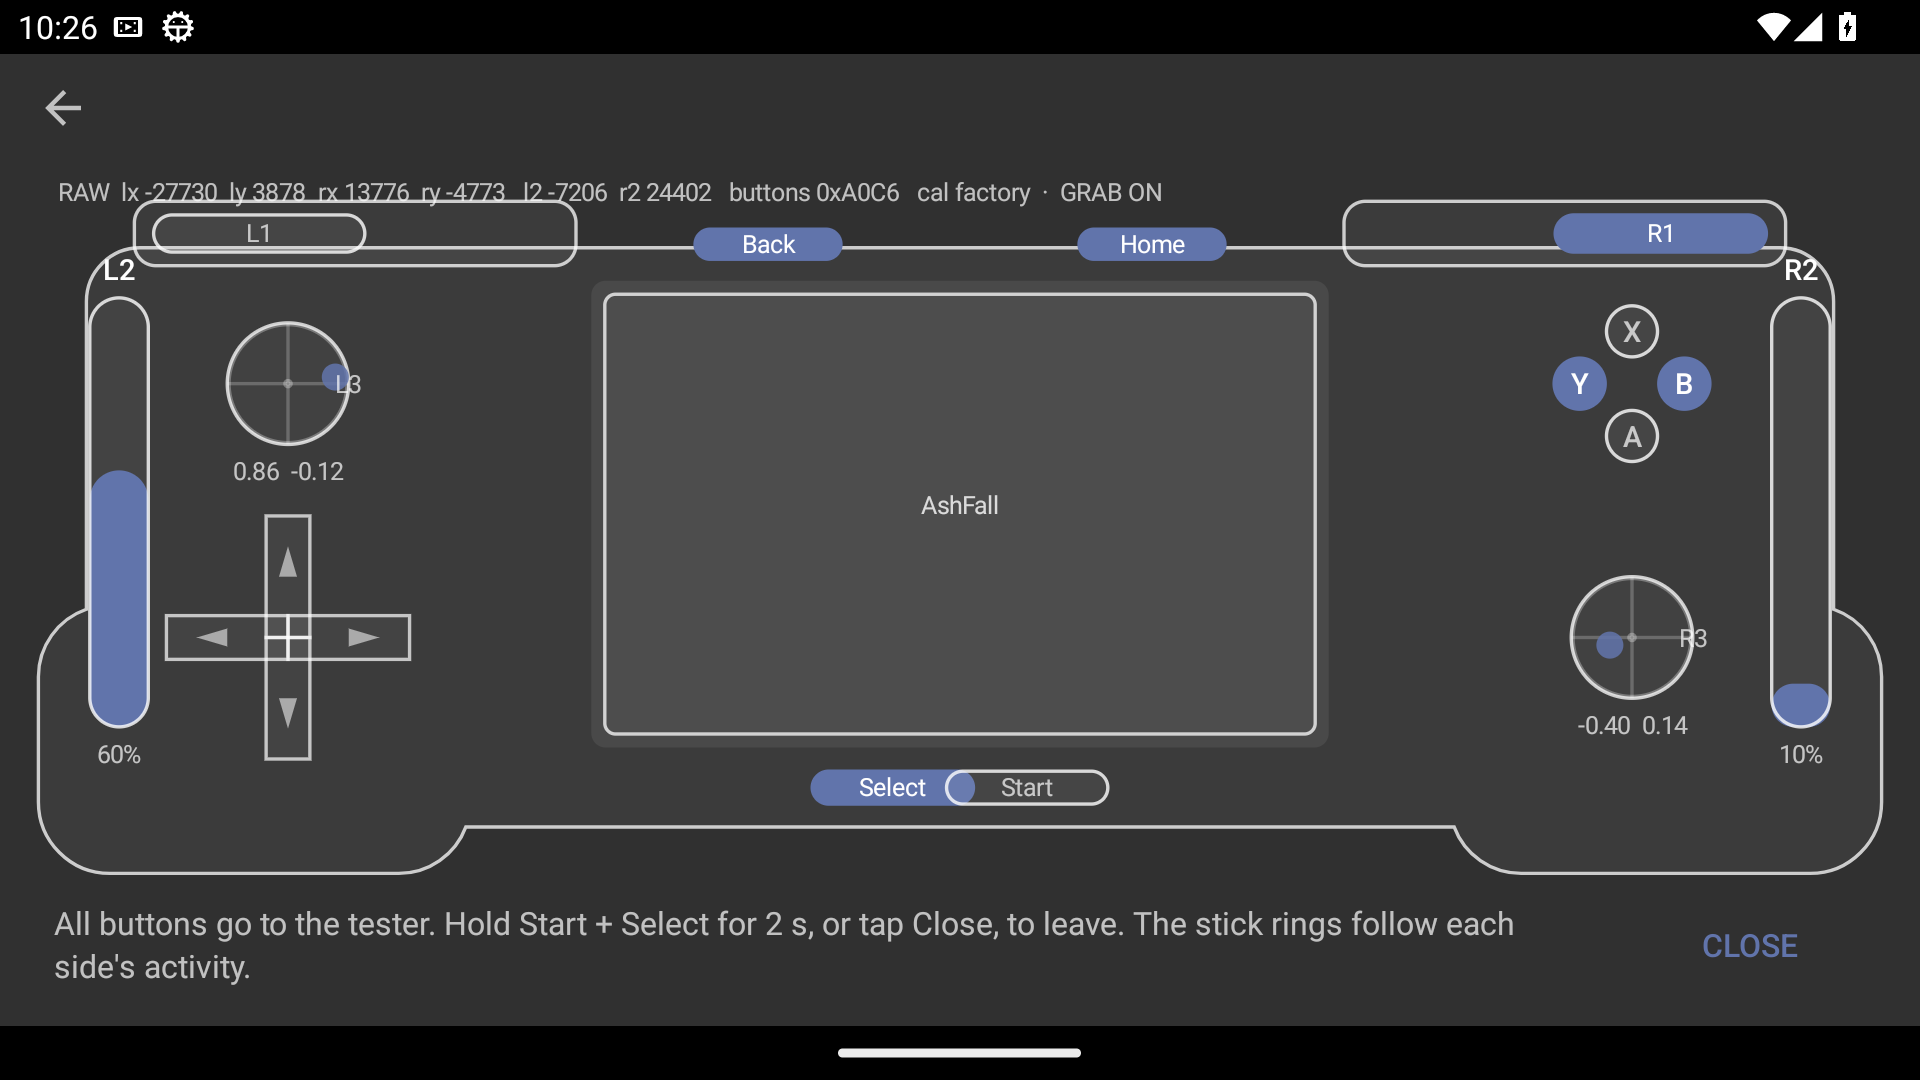
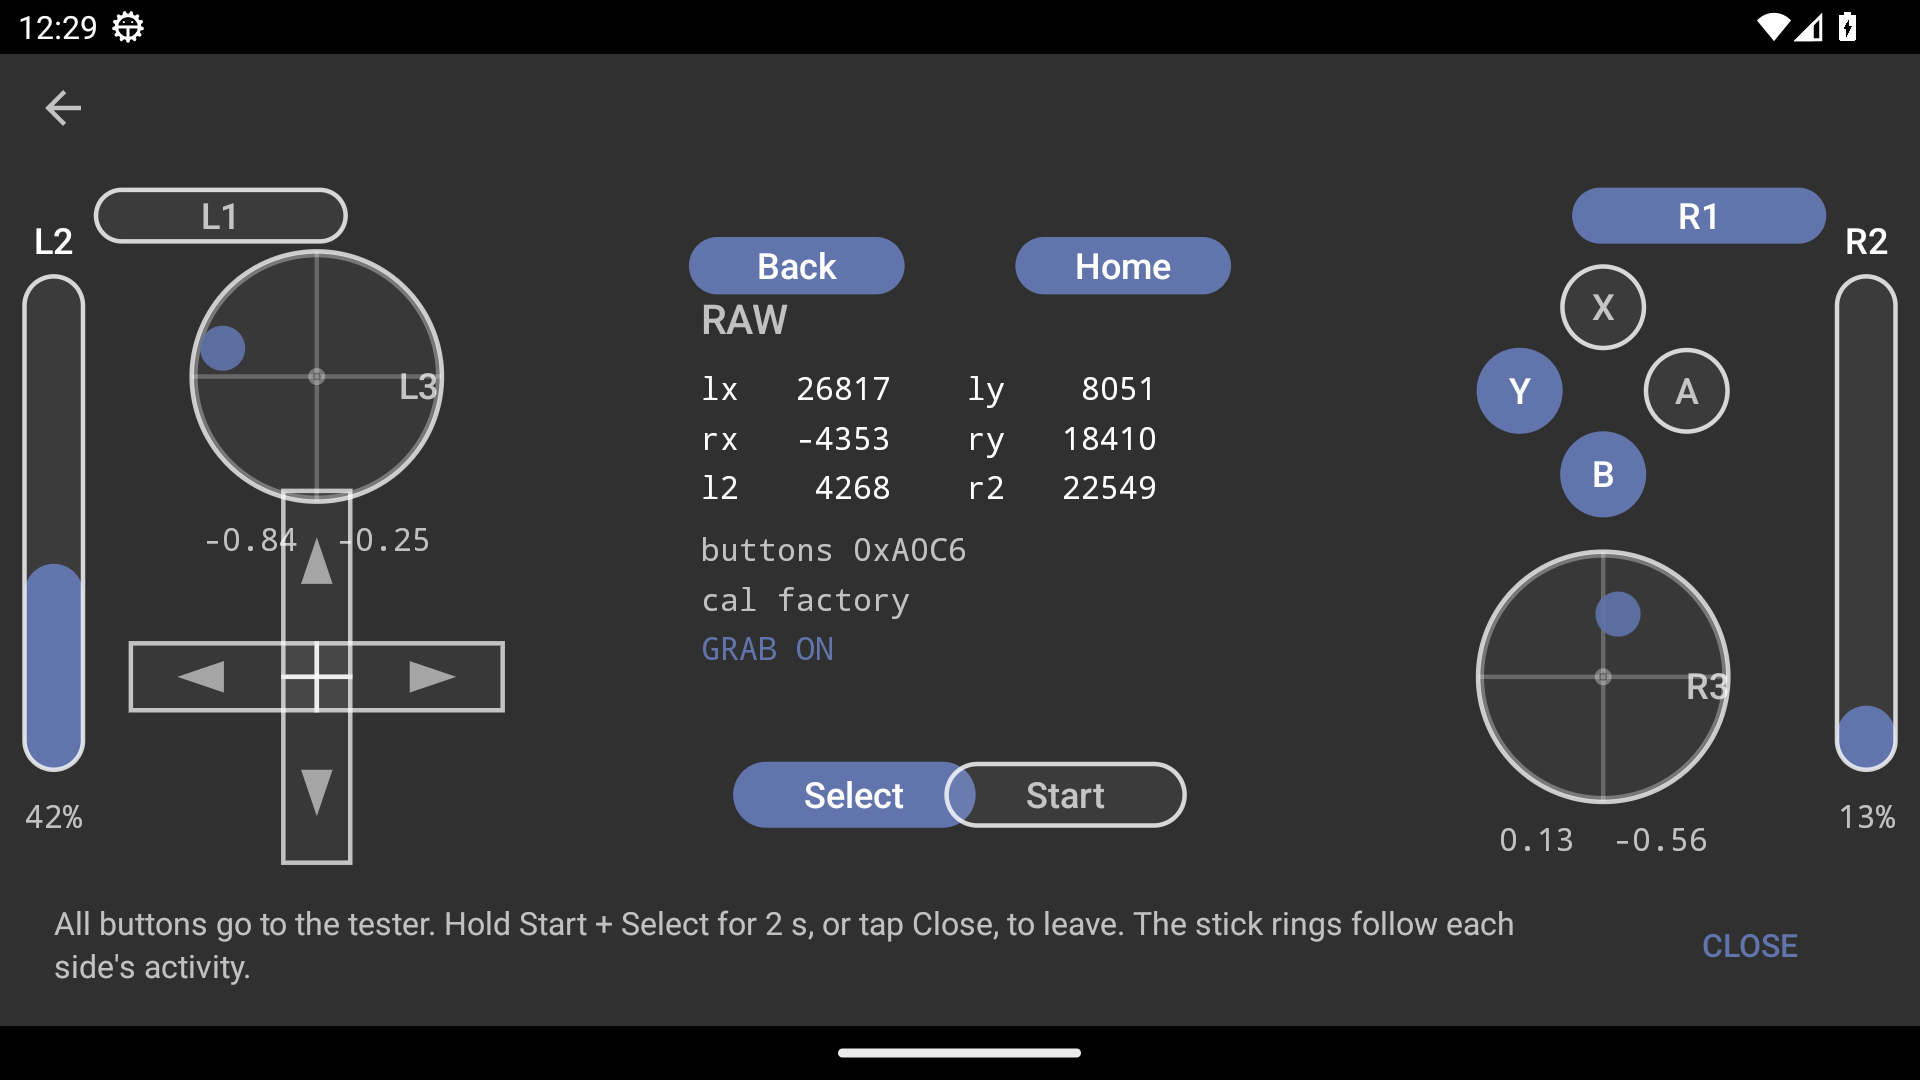
fix(parts): tester shows only the controls, bigger, with A/B swapped (#101)
- Remove the RP5 body/screen/silhouette from ControllerTesterView; keep only
  the sticks (inner/outer deadzone rings), D-pad, A/B/X/Y, L1/R1, L2/R2 analog
  bars, Start/Select, Home/Back and L3/R3.
- Enlarge everything to use the landscape space: sticks 250 px (111 dp)
  diameter, face buttons 82 px (36 dp), D-pad 186 px across, Start/Select
  238x61 px; labels and values scaled with them.  Theme attributes only, so
  light, dark and pure black stay readable.
- Face buttons now follow the physical RP5 layout: X top, Y left, A right,
  B bottom.  drawFaceButtons() previously had A at the bottom and B on the
  right; the MCU bits (14 A, 15 B) and the input protocol are unchanged.
- The freed middle space shows the live RAW counts, calibration source and
  GRAB state; presses, analog values, LED feedback, GRAB lifecycle and the
  Start+Select exit are unchanged.
- Docs and the light/dark screenshots updated.

Fixes #101

diff --git a/docs/parts-controller.md b/docs/parts-controller.md
@@ -1,9 +1,9 @@
 # AshFall Parts: controller tester and calibration wizard v2
 
-Follow-up to `docs/parts.md` for the user test of 2026-11-14 (issue **#84**,
-contract `docs/phase5.md` §6.2/§6.3).  This page documents the controller
-package only; the rest of AshFall Parts (root entry, fan, lighting, QS tiles) is
-described in `docs/parts.md`.
+Follow-ups to `docs/parts.md` for the user tests of 2026-11-14 (issues **#84**
+and **#101**, contract `docs/phase5.md` §6.2/§6.3).  This page documents the
+controller package only; the rest of AshFall Parts (root entry, fan, lighting,
+QS tiles) is described in `docs/parts.md`.
 
 ![Controller tester](parts/screenshots/tester.png)
 ![Controller tester, dark](parts/screenshots/tester-dark.png)
@@ -12,35 +12,40 @@ described in `docs/parts.md`.
 
 | User report | Change |
 |---|---|
-| 1. "Draw a proper RP5 silhouette" | `ui/ControllerTesterView` is a clean-room vector drawing: body with two grips, shoulder bumps, bezel and screen, two sticks with inner/outer deadzone rings and a crosshair, a D-pad, the A/B/X/Y diamond, L1/R1, L2/R2 analog bars, Start/Select, Home/Back and L3/R3 rings.  Every colour comes from `colorAccent`, `textColorPrimary` and `textColorSecondary`, so light, dark and LineageOS pure-black all follow the system theme. |
-| 2. "X and Y appear swapped" | The drawing, not the daemon, was wrong (see §2). |
+| 1. "Draw a proper RP5 silhouette" | First #84 added a clean-room RP5 body.  The retest (#101) removed the silhouette again: `ui/ControllerTesterView` now draws **only the controls** - sticks with inner/outer deadzone rings, a D-pad, the A/B/X/Y diamond, L1/R1, L2/R2 analog bars, Start/Select, Home/Back and L3/R3 - enlarged to use the whole landscape width (853 dp).  Every colour comes from `colorAccent`, `textColorPrimary` and `textColorSecondary`, so light, dark and LineageOS pure-black all follow the system theme. |
+| 2. "X and Y appear swapped" / "A/B are swapped" | The drawing, not the daemon, was wrong (see §2).  #84 moved X to the top and Y to the left; #101 swapped the drawn A and B (A right, B bottom). |
 | 3. "L2/R2 jump to 100 % at about half travel" | The old bar filled the whole trigger rect as soon as the analog value passed 0.5 (a drawing bug), and the view only saw `AXIS_*` values.  The tester now draws the exact analog value as a fill from the bottom and shows the percentage, computed from the raw MCU counts after calibration (so the number can be compared with the raw value). |
 | 4. "B, Back, Home, Select don't show" | The tester now sends `GRAB ON` on its raw-stream socket (§3).  Nothing is injected into uinput, so every button is only reported in the `RAW` mask and drawn.  Leaving: hold **Start + Select for 2 s** (progress bar under the pills) or tap **Close**.  The old "Select toggles the raw overlay" mode is gone; the raw values are always visible. |
 | 5. "Fun: light each side's LED ring with its activity" | `ashfall.ui.led_override` is published at <= 29 Hz (§4) and cleared on pause. |
 | 6. "Calibration waits for Start" | The wizard's timed steps were replaced by Start-paced steps (§5). |
 
-## 2. The button layout (why X is on top)
+## 2. The button layout
 
-The MCU reports a 16-bit button word; `docs/rp5/input.md` documents which bit
-the stock firmware maps to which Linux key code.  Two entries are decisive:
+The physical RP5 diamond (confirmed in the user retests) is:
 
-| MCU bit | stock key code | Linux name / position |
-|---|---|---|
-| 12 | `BTN_X` (0x133) | `BTN_NORTH` - **top** |
-| 13 | `BTN_Y` (0x134) | `BTN_WEST` - **left** |
-| 14 | `BTN_A` (0x130) | `BTN_SOUTH` - bottom |
-| 15 | `BTN_B` (0x131) | `BTN_EAST` - right |
+```
+        X
+    Y       A
+        B
+```
 
-So the RP5's diamond is **X top, Y left, A bottom, B right**, while the old
-tester drew the generic Xbox arrangement (Y top, X left).  Pressing the physical
-X lit the on-screen Y and vice versa, exactly as reported.  The daemon mapping
-already matches the stock table; the fix is in the drawing (and the tester now
-reads the mask, so a future key-code change cannot silently swap the drawing
-again).
+The MCU bits are fixed by `docs/rp5/input.md` and are **not** changed:
 
-The rest of the silhouette follows the same source: the left stick sits above
-the D-pad and the right stick below the face buttons.  Start/Select are drawn
-below the screen, Home/Back on the top edge.
+| MCU bit | stock key code | Key name | drawn at |
+|---|---|---|---|
+| 12 | `BTN_X` (0x133) | `BTN_NORTH` | top |
+| 13 | `BTN_Y` (0x134) | `BTN_WEST` | left |
+| 14 | `BTN_A` (0x130) | `BTN_SOUTH` | right |
+| 15 | `BTN_B` (0x131) | `BTN_EAST` | bottom |
+
+#84 moved X/Y to their real positions (the first drawing used the generic Xbox
+arrangement); the retest showed that A/B were still swapped in the drawing, so
+#101 swapped only the drawn positions of bits 14 and 15.  The daemon, the
+`GRAB`/`RAW` protocol and the `SET CAL` format are untouched.
+
+The sticks keep the physical arrangement without the body around it: the left
+stick sits above the D-pad, the right stick below the face buttons.  Start/Select
+are large pills at the bottom centre, Home/Back at the top centre.
 
 ## 3. GRAB lifecycle
 
@@ -51,8 +56,8 @@ RAW ON\n
 GRAB ON\n
 ```
 
-and reads the two replies (`OK`, or `ERR <reason>` -> `onGrabFailed`) with a
-1.5 s timeout, so a daemon that predates `GRAB` cannot block the tester.  While
+and reads the two replies (`OK`, or `ERR <reason>` -> `onGrabFailed`) with an
+800 ms timeout, so a daemon that predates `GRAB` cannot block the tester.  While
 grabbed:
 
 * the daemon releases all held inputs and injects nothing into uinput;
@@ -117,7 +122,7 @@ still cancels.
 | file | change |
 |---|---|
 | `src/org/ashfall/parts/TesterActivity.java` | grab/raw lifecycle, 2 s Start+Select exit, close button, LED reaction, fallback input |
-| `src/org/ashfall/parts/ui/ControllerTesterView.java` | new clean-room silhouette, mask-driven input, theme colours, exact trigger bars |
+| `src/org/ashfall/parts/ui/ControllerTesterView.java` | controls-only layout (#101), mask-driven input, theme colours, exact trigger bars |
 | `src/org/ashfall/parts/ui/LedFeedback.java` | new: `ashfall.ui.led_override` publisher |
 | `src/org/ashfall/parts/hw/PadState.java` | new: raw counts -> calibrated/deadzoned values on the app side |
 | `src/org/ashfall/parts/ipc/RawStream.java` | `GRAB ON/OFF` on the raw connection, reply handling |
@@ -147,9 +152,13 @@ Soong module:
   trigger 3 %) and match.
 * Button positions were checked on screenshots by locating the accent-coloured
   fills: with the mock reporting `Y B R1 Select Home Back`, exactly those six
-  shapes are lit, and the Y fill is **left** of the face centre while X appears
-  only when the mask has bit 12 (top).  D-pad, L3/R3 rings and both trigger bars
-  matched the reported values (e.g. `L2 0.57` -> bar fill 0.57 of its height).
+  shapes are lit, Y is **left** of the face centre and B is **below** it; with
+  `X A L1 Start Up` exactly those shapes are lit, X **top** and A **right**.
+  D-pad, L3/R3 rings and both trigger bars matched the reported values (e.g.
+  `L2 0.57` -> bar fill 0.57 of its height), and the control sizes were measured
+  on the 1920x715 px view: sticks 250 px (111 dp) diameter, face buttons
+  82 px (36 dp), D-pad 186 px across, Start/Select 238x61 px - roughly double
+  the first version.
 * `getprop ashfall.ui.led_override` while the tester was open:
   `871111:831010`, later `8B1111:8B1111` (per-side activity), and empty after
   closing the tester with the on-screen Close button.  Closing also logged
@@ -162,9 +171,9 @@ Soong module:
   "The sticks did not move far enough. ... Try again", a full roll passed,
   step 3 validated the trigger travel, and step 4 showed the 16 values with
   Save/Cancel.
-* Light and dark: the silhouette, labels and accent were resolved through the
-  theme (window background `#FAFAFA` vs `#000000`, body fill and stroke
-  visible in both).  Pure black uses the same attributes.
+* Light and dark: the controls, labels and accent were resolved through the
+  theme (window background `#FAFAFA` vs `#000000`, outlines and fills visible in
+  both).  Pure black uses the same attributes.
 
 Not verified here: the RP5 hardware itself (owned by the native worker, and the
 device is serialised between workers).  The device checks to repeat are the real

diff --git a/docs/parts.md b/docs/parts.md
@@ -180,16 +180,19 @@ The UI target selector maps onto the daemon's `led.sync`:
   (`user`, `factory`, `default`, or “No calibration available”).
 * **Reset to factory calibration** confirms, then sends `RESET CAL`; the
   factory file is never touched.
-* **Tester** (`TesterActivity`) draws a landscape RP5 outline: sticks with the
-  configured inner/outer deadzone rings, D-pad, A/B/X/Y, L1/R1, exact analog
-  L2/R2 bars, Start/Select, Home/Back and L3/R3.  Since the 2026-11-14 follow-up
-  (issue #84) it sends `GRAB ON` on the raw-stream socket, so nothing is
-  injected into uinput and every button is drawn from the `RAW` mask - including
-  Home, Back and Select, which the system would otherwise consume.  It shows
-  the raw MCU values and the recalibrated values side by side.  Leave by holding
-  Start + Select for 2 s or tapping Close; the key-event path remains only as a
-  fallback when the daemon is unreachable (B/Back then exits).  Details and the
-  button-layout note: [parts-controller.md](parts-controller.md).
+* **Tester** (`TesterActivity`) draws only the controls, large, with no
+  handheld outline (issue #101): sticks with the configured inner/outer deadzone
+  rings, D-pad, A/B/X/Y, L1/R1, exact analog L2/R2 bars, Start/Select, Home/Back
+  and L3/R3, using the full landscape space.  The face buttons follow the
+  physical RP5 layout: X top, Y left, A right, B bottom.  Since the 2026-11-14
+  follow-up (issue #84) it sends `GRAB ON` on the raw-stream socket, so nothing
+  is injected into uinput and every button is drawn from the `RAW` mask -
+  including Home, Back and Select, which the system would otherwise consume.
+  The live RAW counts, calibration source and GRAB state are shown between the
+  two control clusters.  Leave by holding Start + Select for 2 s or tapping
+  Close; the key-event path remains only as a fallback when the daemon is
+  unreachable (B/Back then exits).  Details and the button-layout note:
+  [parts-controller.md](parts-controller.md).
 * **Calibration wizard** (`CalibrationActivity`) opens a socket and requests
   `RAW ON`, then runs four steps; each capture step now waits for the user to
   press **Start** instead of running on a timer (issue #84):
